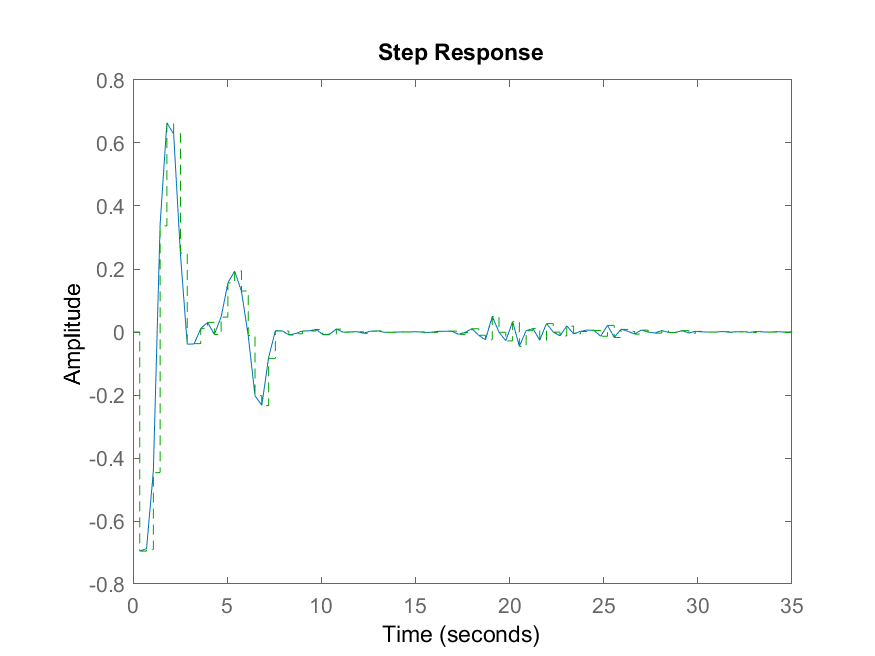
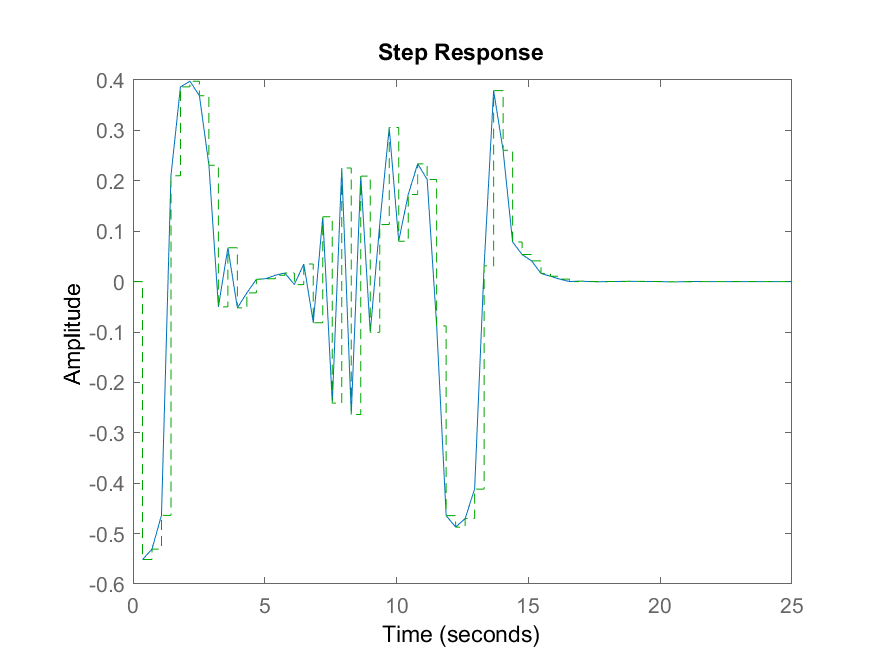
gtggfsf

diff --git a/lab3/table.tex b/lab3/table.tex
@@ -1,6 +1,6 @@
 \begin{tabular}{lllllllllll}
 & Constraint_Max_U & Constraint_Max_OS & Constraint_Max_TS & Constraint_ObjectiveValue & Constraint_NumPoles & RESULT_Ess & RESULT_UMax & RESULT_OS & RESULT_SettlingTime & RESULT_UTotalVariation \\ 
 \hline 
-Attempt_3 & 0.7 & 0.45 & 7 & 3 & 200 & 4.074222039799193e+22 & 0.69566 & NaN & NaN & 4.6383 \\ 
+Attempt_3 & 0.7 & 0.45 & 700 & 0 & 46 & -1.2936e-06 & 0.55152 & 38.165 & 14.4 & 7.5101 \\ 
 \hline 
 \end{tabular}
